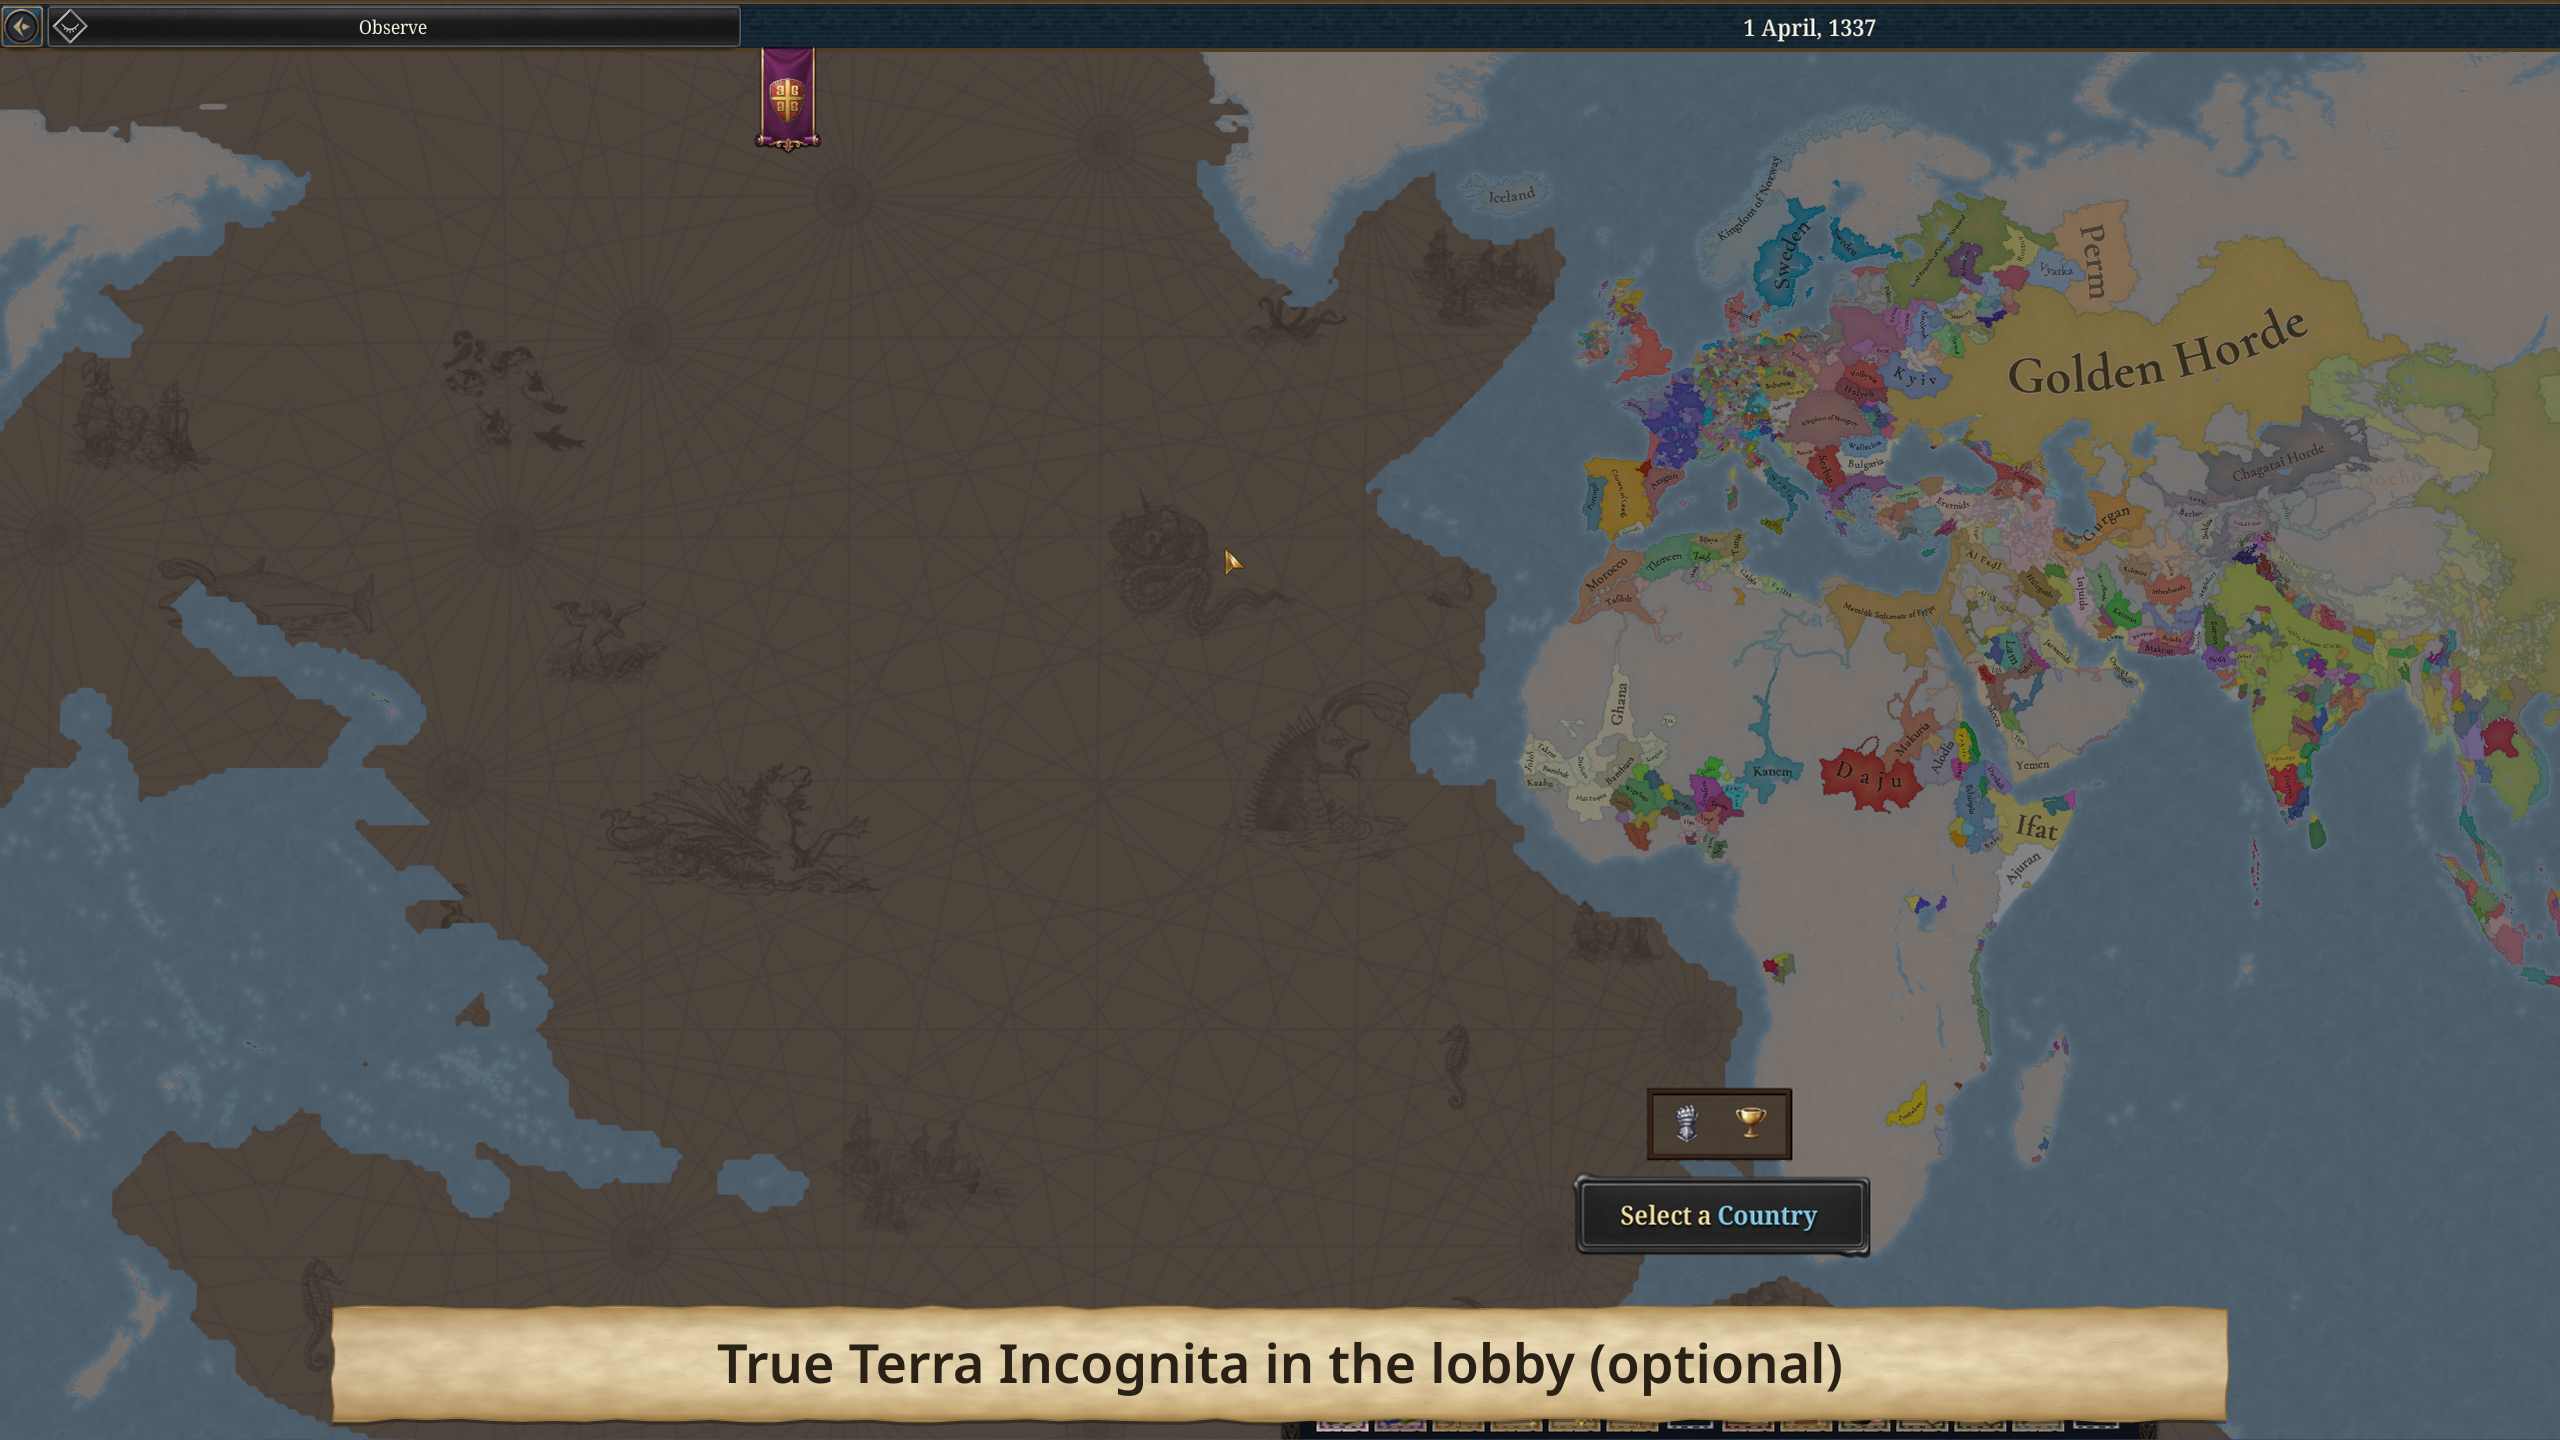
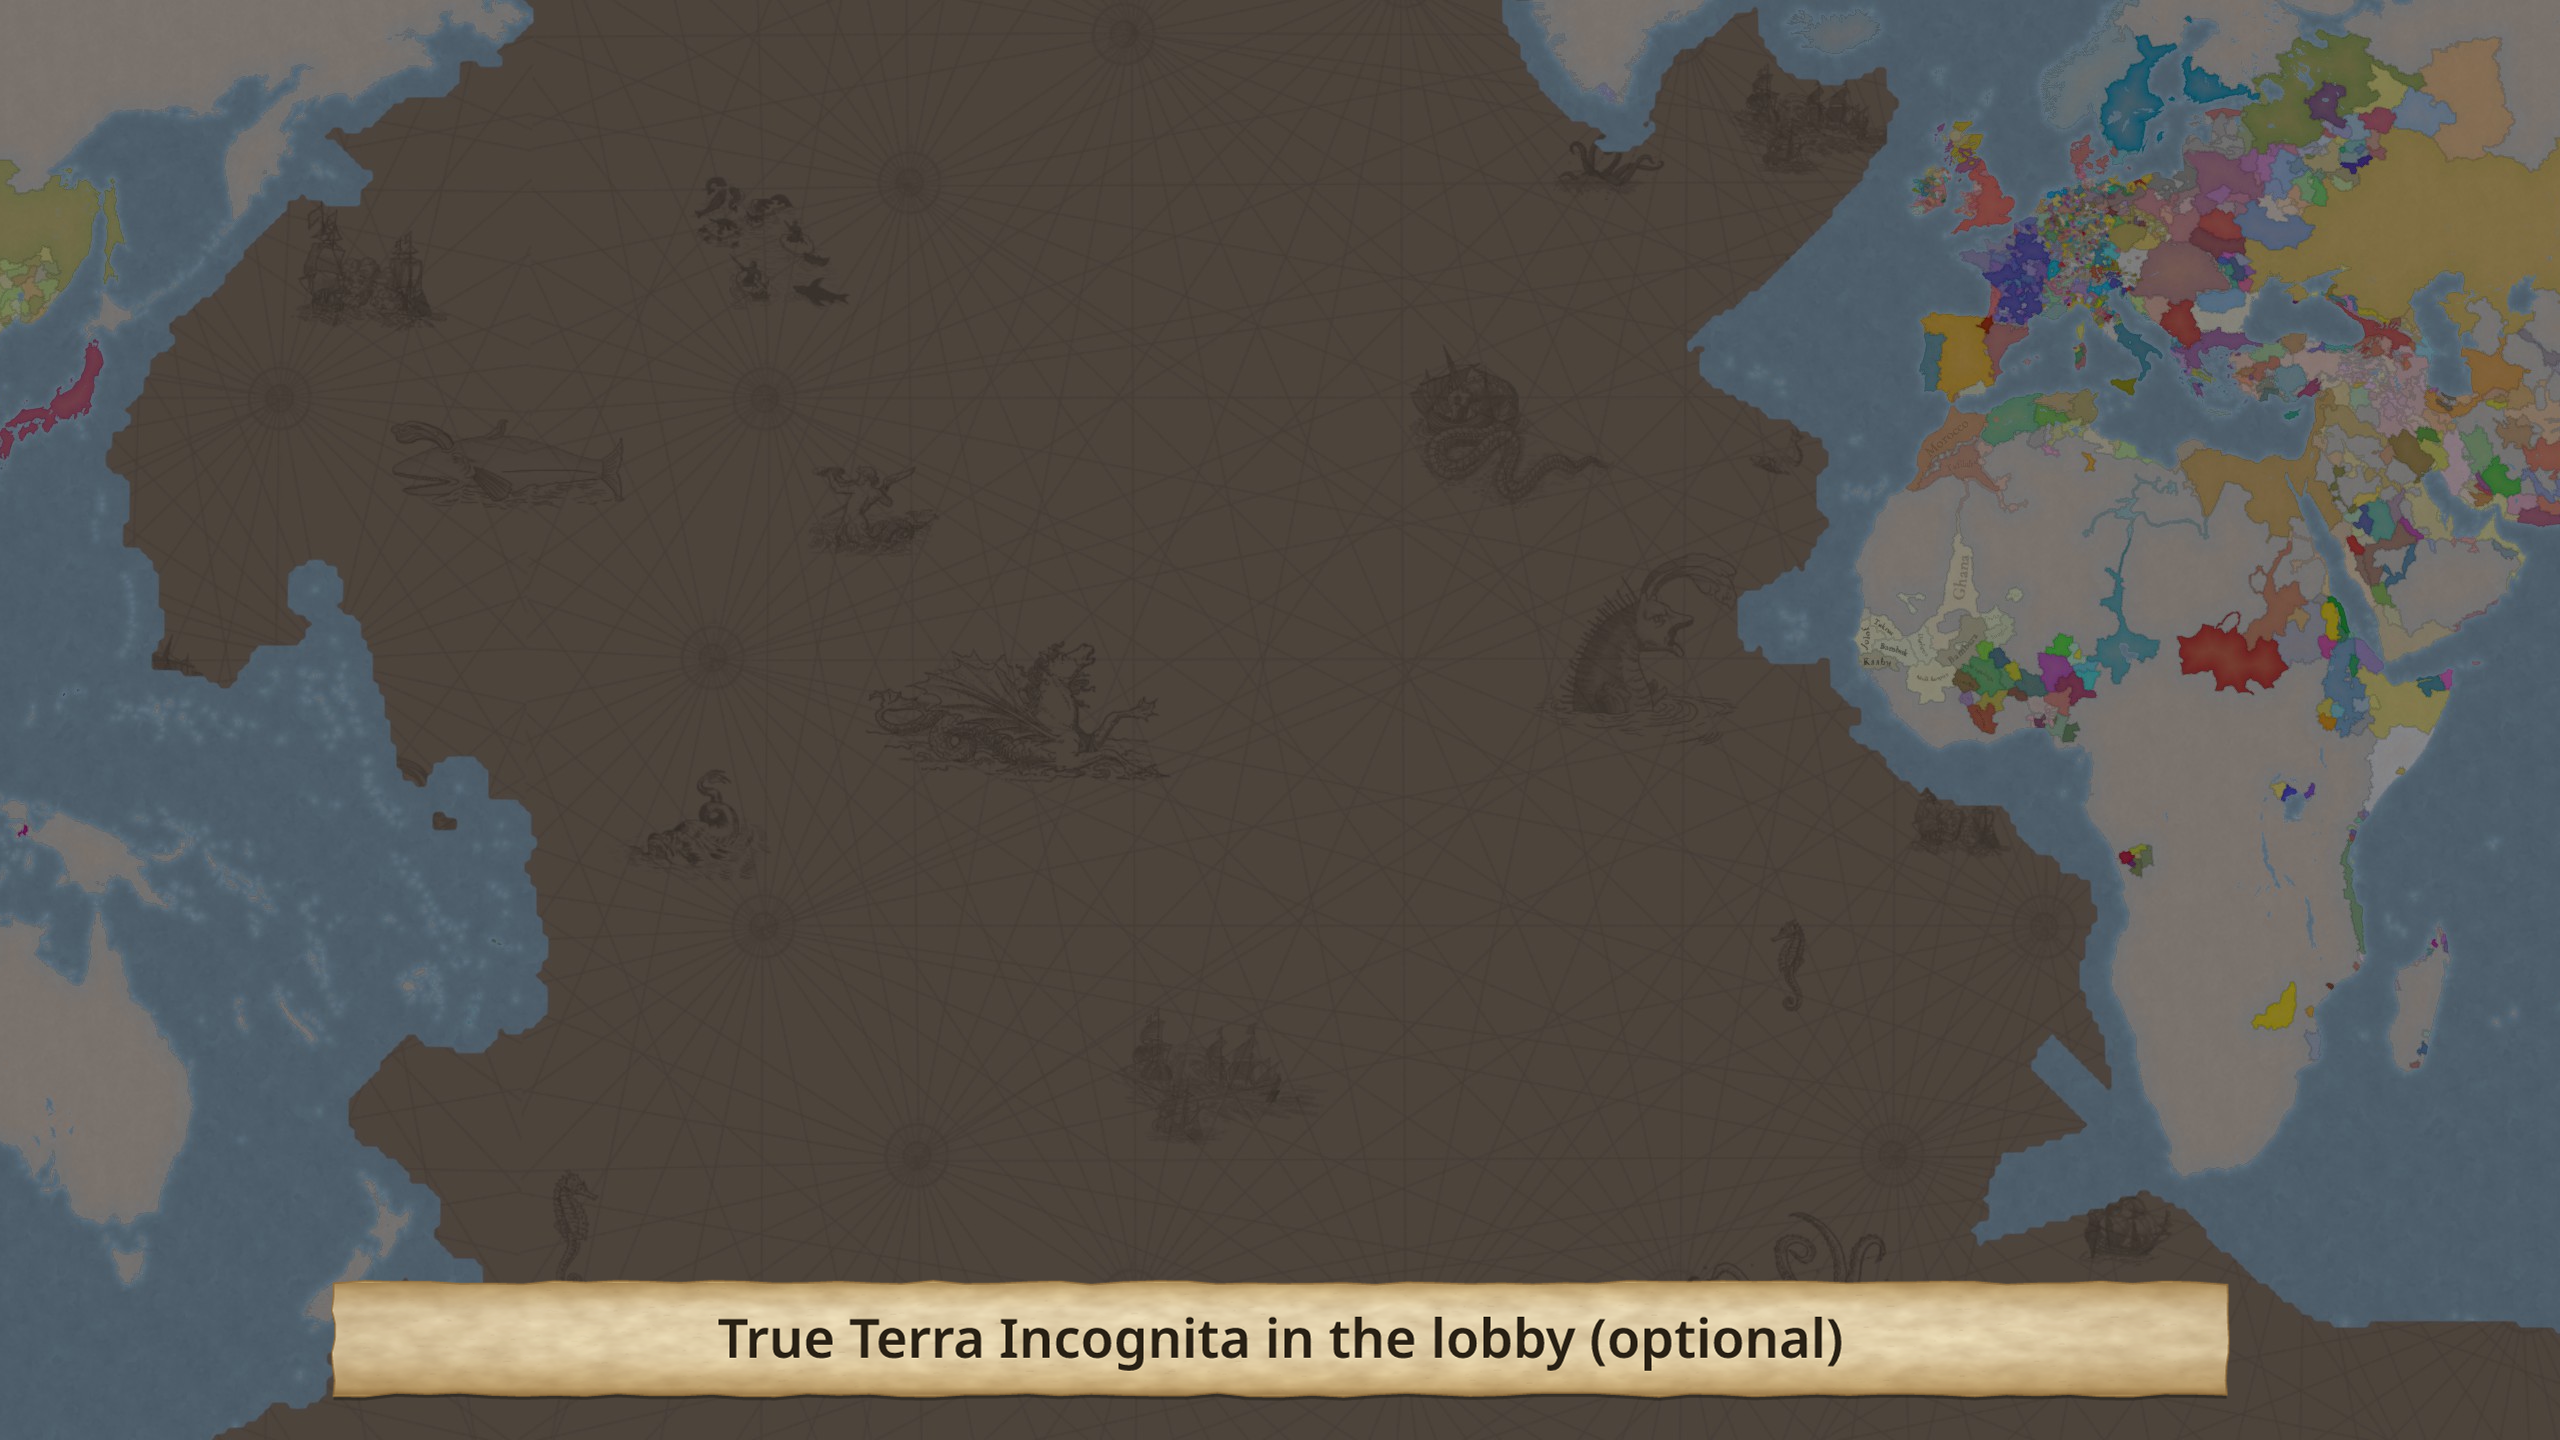
Refresh the showcase: 65% canvas caption and screenshots, add The Wall Returns and the 1.1.0 realism picture
- 02 and 03 screenshots and the 03 caption now show the Pacific-extended canvas (+65% over the legacy canvas).
- New showcase entries 10 (The Wall Returns) and 11 (RNW 1.1.0 mountains, water and coastlines) with their caption files.
- README showcase lists eleven screenshots with the new rows and the updated alt text.

diff --git a/README.md b/README.md
@@ -52,7 +52,7 @@ Planned work includes deeper hydrology, more varied continental geography and so
 ### In game
 
 <details>
-<summary>Nine in-game screenshots — geography, native societies, oceans and dynamic content</summary>
+<summary>Eleven in-game screenshots — geography, native societies, oceans and dynamic content</summary>
 
 Click a screenshot to view it at full size.
 
@@ -62,7 +62,7 @@ Click a screenshot to view it at full size.
 </tr>
 <tr>
 <td width="50%"><a href="docs/images/showcase/02-lobby-terra-incognita.png"><img src="docs/images/showcase/02-lobby-terra-incognita.png" alt="True Terra Incognita in the lobby (optional)"></a></td>
-<td width="50%"><a href="docs/images/showcase/03-ocean-navigation.png"><img src="docs/images/showcase/03-ocean-navigation.png" alt="40% Expanded Canvas: Dynamic Sea Lanes, Currents &amp; Reshaped Ocean Wastelands"></a></td>
+<td width="50%"><a href="docs/images/showcase/03-ocean-navigation.png"><img src="docs/images/showcase/03-ocean-navigation.png" alt="65% Expanded Canvas: Dynamic Sea Lanes, Currents &amp; Reshaped Ocean Wastelands"></a></td>
 </tr>
 <tr>
 <td width="50%"><a href="docs/images/showcase/04-playable-native-societies.png"><img src="docs/images/showcase/04-playable-native-societies.png" alt="Playable Native Societies — With Full Ironman &amp; Achievement Support!"></a></td>
@@ -75,6 +75,10 @@ Click a screenshot to view it at full size.
 <tr>
 <td width="50%"><a href="docs/images/showcase/08-east-colonization.png"><img src="docs/images/showcase/08-east-colonization.png" alt="East Meets West: Turn off the European-only colonization rule and watch Asian powers settle the New World from across the Pacific"></a></td>
 <td width="50%"><a href="docs/images/showcase/09-dynamic-content.png"><img src="docs/images/showcase/09-dynamic-content.png" alt="Dynamic Content: Procedural colonial names, custom formable nations, and adapted historical &amp; regional events"></a></td>
+</tr>
+<tr>
+<td width="50%"><a href="docs/images/showcase/10-the-wall-returns.png"><img src="docs/images/showcase/10-the-wall-returns.png" alt="The Wall Returns: a continent-wide barrier across the New World"></a></td>
+<td width="50%"><a href="docs/images/showcase/11-improved-gen.png"><img src="docs/images/showcase/11-improved-gen.png" alt="RNW 1.1.0: More realistic mountains, water bodies, and coastlines"></a></td>
 </tr>
 </table>
 
